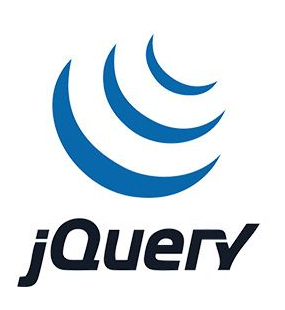
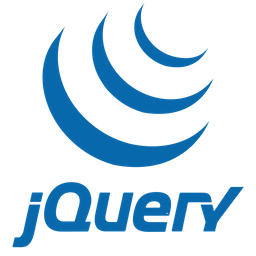
rescaling images in PS, add technologies

diff --git a/index.html b/index.html
@@ -46,14 +46,15 @@
         <div class="showCV"></div>
         <div class="downloadCV"></div>
     </section>
-    <section class="skills">
-        <div><img src="images/html5.png" alt=""></div>
-        <div><img src="images/css3.png" alt=""></div>
-        <div><img src="images/js6.png" alt=""></div>
-        <div><img src="images/rwd.png" alt=""></div>
-        <div><img src="images/Git.png" alt=""></div>
-        <div><img src="images/JQuery.png" alt=""></div>
-        <div><img src="images/Sass.png" alt=""></div>
+    <section class="technologies">
+        <h2>Technologie</h2>
+        <div><img src="images/html5.png" alt="html5"></div>
+        <div><img src="images/css3.png" alt="css3"></div>
+        <div><img src="images/js6.png" alt="js6"></div>
+        <div><img src="images/rwd.png" alt="rwd"></div>
+        <div><img src="images/Git.png" alt="Git"></div>
+        <div><img src="images/JQuery.png" alt="JQuery"></div>
+        <div><img src="images/Sass.png" alt="Sass"></div>
     </section>
 
     <script src="https://code.jquery.com/jquery-3.4.1.min.js"

diff --git a/style/style.css b/style/style.css
@@ -271,3 +271,20 @@ section.aboutMe {
     width: 80%;
     margin: auto;
 }
+
+/* section technologies */
+section.technologies {
+    width: 80%;
+    margin: auto;
+}
+
+section div {
+    margin: 30px auto;
+    width: 200px;
+    height: 200px;
+}
+
+section.technologies div img {
+    width: 100%;
+    height: 100%;
+}
